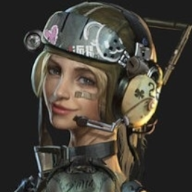
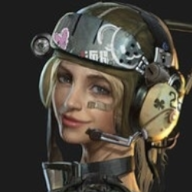
Fixed SP and paid Upgrade Opportunity paths

diff --git a/src/data/scripts/campaign/rulecmd/Alkemia_Opportunity.java b/src/data/scripts/campaign/rulecmd/Alkemia_Opportunity.java
@@ -21,10 +21,12 @@ import com.fs.starfarer.api.impl.campaign.DModManager;
 import com.fs.starfarer.api.impl.campaign.fleets.FleetFactoryV3;
 import com.fs.starfarer.api.impl.campaign.ids.Factions;
 import com.fs.starfarer.api.impl.campaign.ids.FleetTypes;
+import com.fs.starfarer.api.impl.campaign.ids.HullMods;
 import com.fs.starfarer.api.impl.campaign.ids.Ranks;
 import com.fs.starfarer.api.impl.campaign.ids.Voices;
 import com.fs.starfarer.api.impl.campaign.missions.hub.HubMissionWithBarEvent;
 import com.fs.starfarer.api.impl.campaign.rulecmd.FireBest;
+import com.fs.starfarer.api.loading.HullModSpecAPI;
 import com.fs.starfarer.api.util.Misc;
 
 import data.scripts.AlkemiaIds;
@@ -34,9 +36,15 @@ import data.scripts.AlkemiaIds;
  */
 public class Alkemia_Opportunity extends HubMissionWithBarEvent {
     public static final String GIVER_KEY = "$alkemia_opportunityData";
-    public static final String SP_REQUIRED = "$alkemia_opportunitySPReq";
+    public static final String SP_REQUIRED = "$alkemia_opp_requiresSP";
+    public static final String SP_SPENT = "$alkemia_opp_spentSP";
+    public static final String CREDITS_SPENT = "$alkemia_opp_paid";
+    public static final String CREDITS_MULT = "$alkemia_opp_costMult";
     public static final float EVENT_DAYS = 60;
+    public static final float BASE_COST_MULT = 0.5f;
     protected static final int COLUMNS = 7;
+
+    protected PersonAPI person = null;
 
     public static List<String> POSSIBLE_MODS = new ArrayList<String>();
     static {
@@ -57,37 +65,50 @@ public class Alkemia_Opportunity extends HubMissionWithBarEvent {
         // setGiverFaction(Factions.ALKEMIA);
         setGiverPost(Ranks.POST_CITIZEN);
         setGiverImportance(PersonImportance.LOW);
-        setGiverVoice(Voices.SCIENTIST);
+        setGiverVoice(Voices.SPACER);
         findOrCreateGiver(createdAt, false, true);
 
-        PersonAPI person = getPerson();
+        person = getPerson();
 
         setRepFactionChangesTiny();
 
+        MemoryAPI globalMemory = Global.getSector().getMemoryWithoutUpdate();
+
         boolean refSet = setPersonMissionRef(person, "$alkemia_opportunity_ref");
+        globalMemory.set("$alkemia_oppGiverName", person.getName().getFirst(), 0);
+
         int modIndex = Math.round((float) Math.random());
         String selectedMod = POSSIBLE_MODS.get(modIndex);
-        Global.getSector().getMemory().set("$alkemia_opportunity_mod_ref", selectedMod);
-        String modName = Global.getSettings().getHullModSpec(selectedMod).getDisplayName();
-        Global.getSector().getMemory().set("$alkemia_opportunity_mod_name", modName);
+        globalMemory.set("$alkemia_opportunity_mod_ref", selectedMod, 0);
 
-        if (!Global.getSector().getMemoryWithoutUpdate().contains(SP_REQUIRED)
-                && genRandom.nextFloat() < 0.1f)
+        HullModSpecAPI modSpec = Global.getSettings().getHullModSpec(selectedMod);
+        globalMemory.set("$alkemia_opportunity_mod_name", modSpec.getDisplayName(), 0);
+
+        if (Global.getSector().getMemoryWithoutUpdate().contains(SP_SPENT)
+                || hasRepAll(person, RepLevel.INHOSPITABLE)) {
+            setSPRequired(false);
+        } else {
             setSPRequired(true);
+        }
+
+        globalMemory.set(CREDITS_SPENT, false);
+        globalMemory.set("$alkemia_opp_baseCost", modSpec.getBaseValue());
+        globalMemory.set(CREDITS_MULT, BASE_COST_MULT);
 
         return refSet;
     }
 
     @Override
     public PersonAPI getPerson() {
-        PersonAPI person = (PersonAPI) Global.getSector().getMemoryWithoutUpdate().get(GIVER_KEY);
         if (person == null) {
             person = Global.getSector().getFaction(Factions.INDEPENDENT).createRandomPerson();
 
             if (person.getGender() == Gender.MALE) {
-                person.setPortraitSprite(Global.getSettings().getSpriteName("characters", "male_mechanic"));
+                person.setPortraitSprite(Global.getSettings().getSpriteName("characters",
+                        String.format("male_mechanic%d", getRandom(1, 2))));
             } else {
-                person.setPortraitSprite(Global.getSettings().getSpriteName("characters", "female_mechanic"));
+                person.setPortraitSprite(Global.getSettings().getSpriteName("characters",
+                        String.format("female_mechanic%d", getRandom(1, 3))));
             }
 
             Global.getSector().getMemoryWithoutUpdate().set(GIVER_KEY, person);
@@ -106,22 +127,31 @@ public class Alkemia_Opportunity extends HubMissionWithBarEvent {
 
     @Override
     protected void updateInteractionDataImpl() {
-        set("$alkemia_opp_requiresSP", getSPRequired());
-        set("$alkemia_opp_isInhosp", Global.getSector().getPlayerFaction()
-                .getRelationshipLevel(Factions.INDEPENDENT)
-                .isAtBest(RepLevel.INHOSPITABLE));
+        set(SP_REQUIRED, getSPRequired());
+        set("$alkemia_opp_isInhosp", !hasRepAll(person, RepLevel.INHOSPITABLE));
+        set("$alkemia_opp_liked", hasRepAny(person, RepLevel.WELCOMING));
+        
+        MemoryAPI globalMemory = Global.getSector().getMemoryWithoutUpdate();
+        Object mult = globalMemory.get(CREDITS_MULT);
+        if (mult != null) {
+            set("$alkemia_opp_cost", Misc.getWithDGS((float) mult * (float) globalMemory.get("$alkemia_opp_baseCost")));
+        }
     }
 
     @Override
     protected boolean callAction(String action, String ruleId, InteractionDialogAPI dialog, List<Misc.Token> params,
             Map<String, MemoryAPI> memoryMap) {
+        if (action.equals("doPay")) {
+            set(CREDITS_SPENT, true);
+            return true;
+        }
+
         if (action.equals("showPicker")) {
             showPicker(dialog, memoryMap);
             return true;
         }
         if (action.equals("spentSP")) {
-            set("$alkemia_opp_requiresSP", false);
-            setSPRequired(false);
+            set(SP_SPENT, true);
             return true;
         }
 
@@ -140,17 +170,21 @@ public class Alkemia_Opportunity extends HubMissionWithBarEvent {
     protected void showPicker(final InteractionDialogAPI dialog, final Map<String, MemoryAPI> memoryMap) {
         List<FleetMemberAPI> avail = getAvailableShips();
 
-        int rows = avail.size() / 7 + 1;
+        int rows = avail.size() / COLUMNS + 1;
 
-        dialog.showFleetMemberPickerDialog("Pick ship for mod integration", "Ok", "Cancel", rows, COLUMNS, 58f,
+        dialog.showFleetMemberPickerDialog(
+                "Pick a ship for mod integration", "Ok", "Cancel", rows, COLUMNS, 58f,
                 true, false, avail, new FleetMemberPickerListener() {
 
                     @Override
                     public void pickedFleetMembers(List<FleetMemberAPI> members) {
-                        if (members.isEmpty())
+                        if (members.isEmpty()) {
+                            FireBest.fire(null, dialog, memoryMap, "alkemia_oppBackout");
                             return;
+                        }
 
-                        String availableMod = Global.getSector().getMemoryWithoutUpdate().getString("$alkemia_opportunity_mod_ref");
+                        String availableMod = Global.getSector().getMemoryWithoutUpdate()
+                                .getString("$alkemia_opportunity_mod_ref");
 
                         ShipVariantAPI variant = members.get(0).getVariant();
                         if (variant.getSMods().contains(availableMod)) {
@@ -158,22 +192,21 @@ public class Alkemia_Opportunity extends HubMissionWithBarEvent {
                         }
                         variant.addPermaMod(availableMod);
                         if (genRandom.nextBoolean()) {
-                            variant.addMod("ill_advised");
+                            variant.addMod(HullMods.ILL_ADVISED);
                             DModManager.setDHull(variant);
-        
+
                             memoryMap.get(MemKeys.LOCAL).set("$alkemia_oppIllAdvised", true, 0);
                         }
-        
 
-                        FireBest.fire(null, dialog, memoryMap, "Alkemia_oppPostText");
+                        FireBest.fire(null, dialog, memoryMap, "alkemia_oppPostText");
                         memoryMap.get(MemKeys.LOCAL).set("$alkemia_oppPicked", true, 0);
-                        FireBest.fire(null, dialog, memoryMap, "Alkemia_oppPicked");
+                        FireBest.fire(null, dialog, memoryMap, "alkemia_oppPicked");
                     }
 
                     @Override
                     public void cancelledFleetMemberPicking() {
                         memoryMap.get(MemKeys.LOCAL).set("$alkemia_oppPicked", false, 0);
-                        FireBest.fire(null, dialog, memoryMap, "Alkemia_oppPicked");
+                        FireBest.fire(null, dialog, memoryMap, "alkemia_oppBackout");
                     }
                 });
     }
@@ -201,13 +234,14 @@ public class Alkemia_Opportunity extends HubMissionWithBarEvent {
      * Does not count S-mods as "built-in"
      * 
      * @param member the ship to check
-     * @param mod ID of the hullmod
+     * @param mod    ID of the hullmod
      * @return whether the ship has a mod built-in
      */
     private boolean hasBuiltInMod(FleetMemberAPI member, String mod) {
         ShipVariantAPI variant = member.getVariant();
 
-        if (variant.hasHullMod(mod)) return true;
+        if (variant.hasHullMod(mod))
+            return true;
 
         return variant.hasHullMod(mod)
                 && !(variant.getSMods().contains(mod)
@@ -217,9 +251,29 @@ public class Alkemia_Opportunity extends HubMissionWithBarEvent {
     private boolean isCarrier(FleetMemberAPI member) {
         ShipVariantAPI variant = member.getVariant();
 
-        if (variant.getNonBuiltInWings().size() > 0) return true;
+        if (variant.getNonBuiltInWings().size() > 0)
+            return true;
 
         return false;
     }
 
+    private int getRandom(int min, int max) {
+        double seed = Math.random() * (max - min);
+        long crop = Math.round(seed);
+        return min + (int) crop;
+    }
+
+    private boolean hasRepAll(PersonAPI person, RepLevel rep) {
+        return person.getRelToPlayer().isAtWorst(rep) &&
+                Global.getSector().getPlayerFaction()
+                        .getRelationshipLevel(person.getFaction())
+                        .isAtWorst(rep);
+    }
+
+    private boolean hasRepAny(PersonAPI person, RepLevel rep) {
+        return person.getRelToPlayer().isAtWorst(rep) ||
+                Global.getSector().getPlayerFaction()
+                        .getRelationshipLevel(person.getFaction())
+                        .isAtWorst(rep);
+    }
 }
